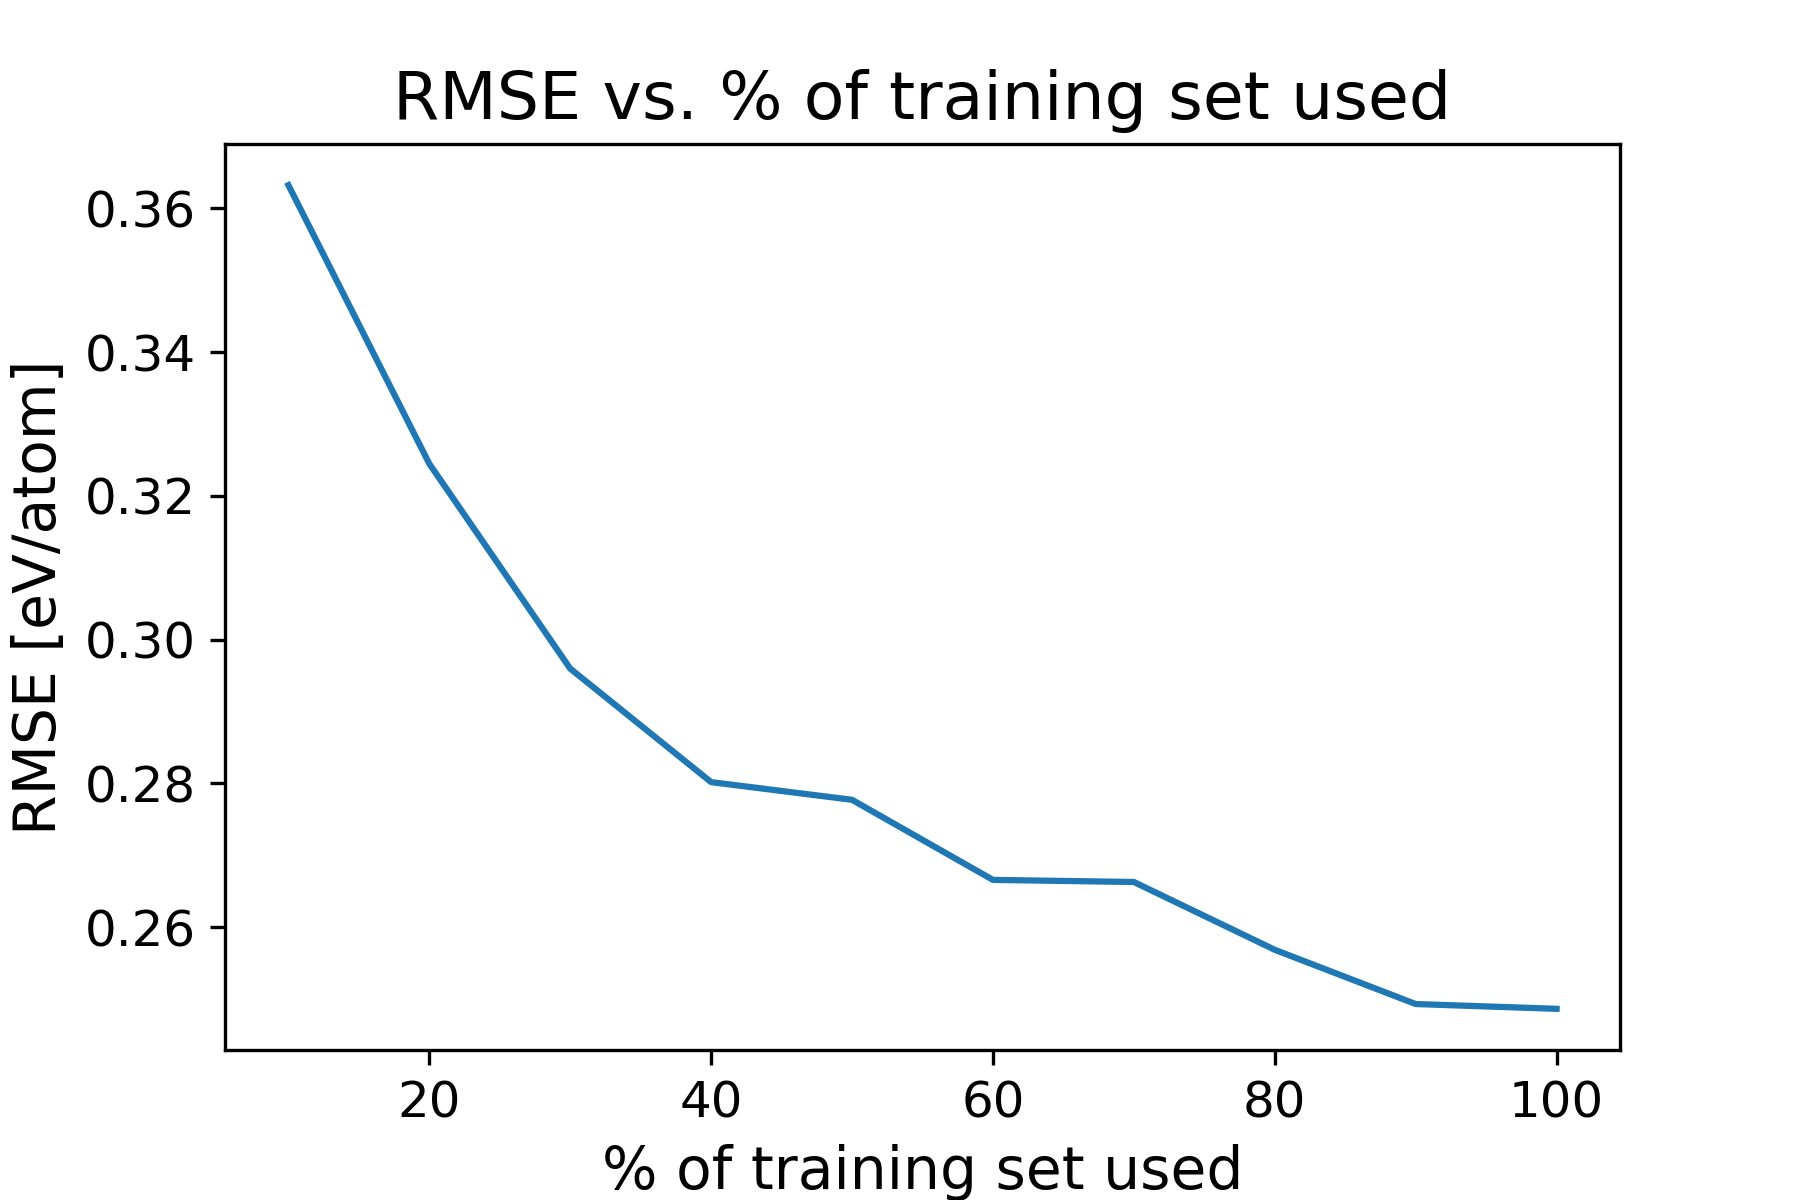
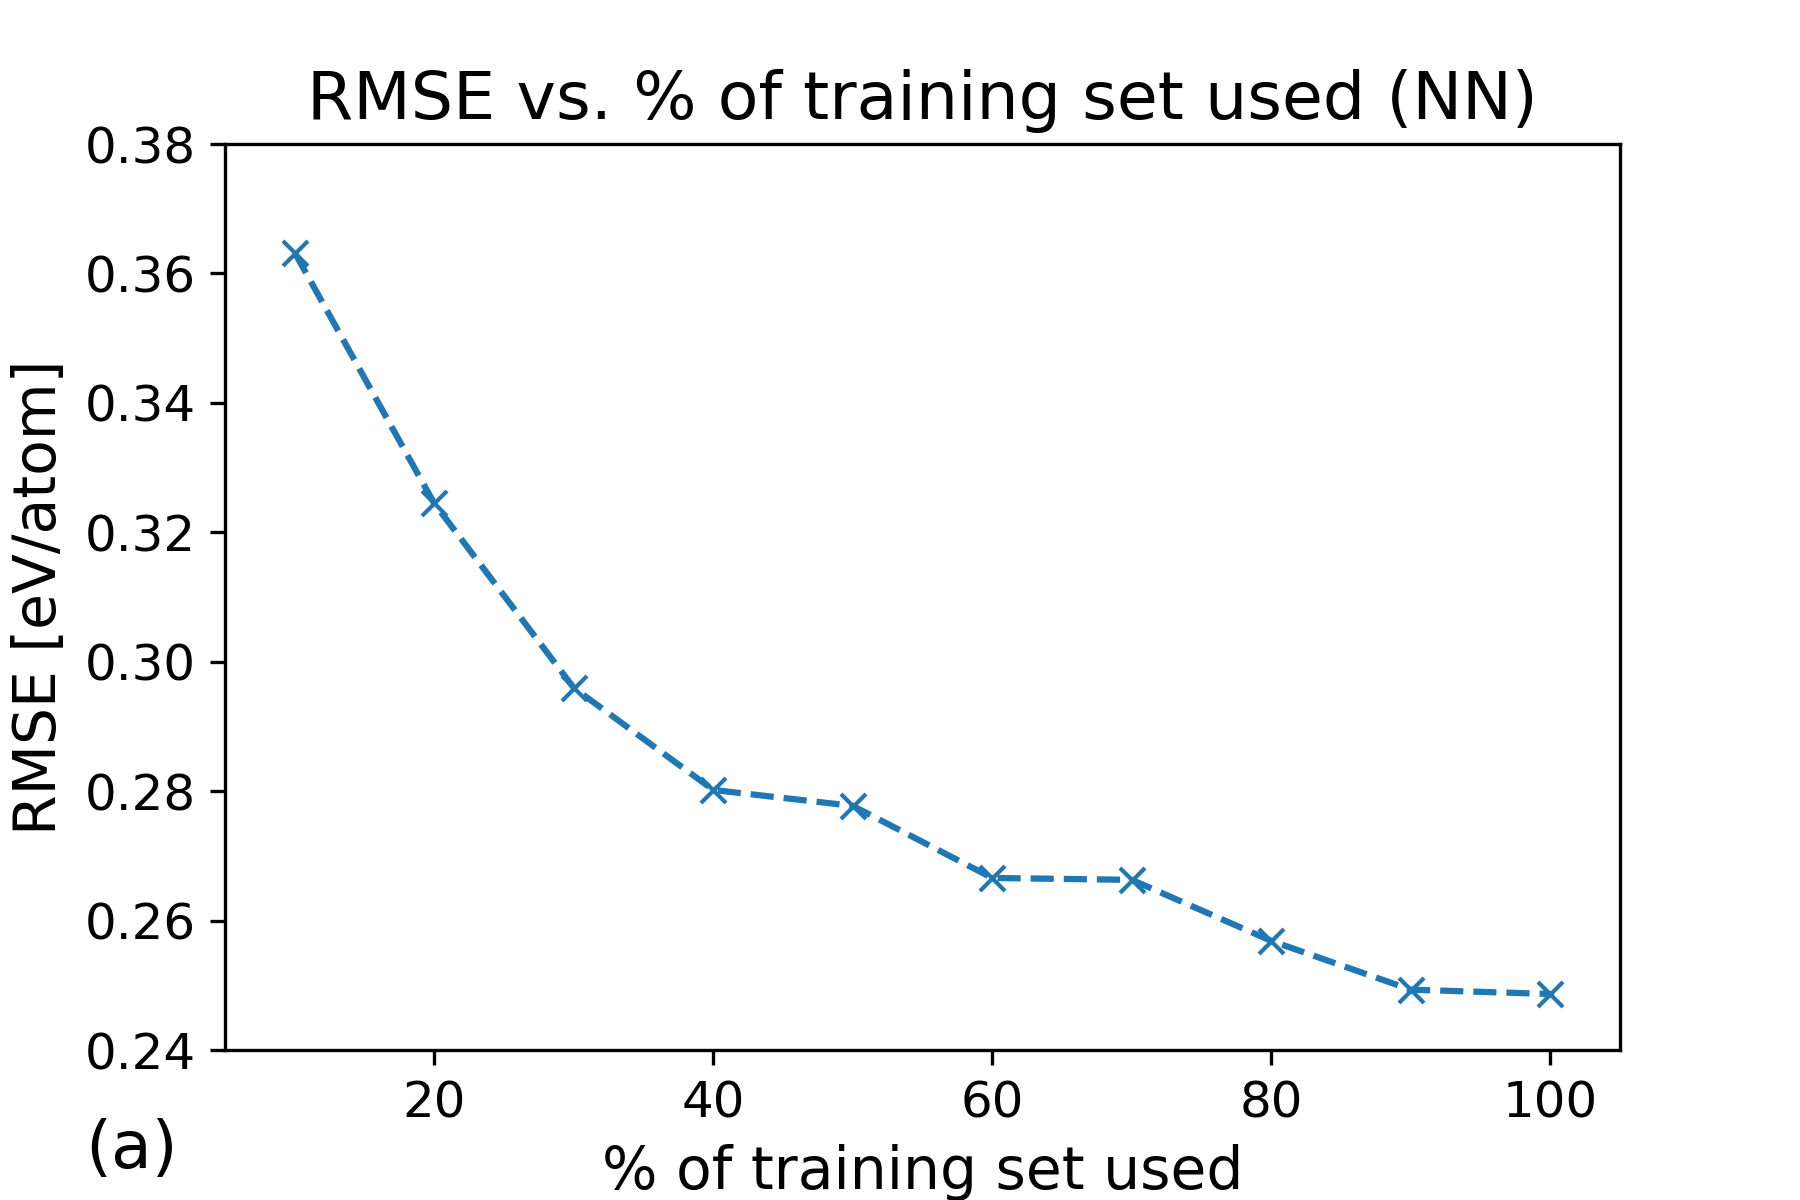
x

diff --git a/NN/data_size_plots.py b/NN/data_size_plots.py
@@ -12,6 +12,7 @@ import numpy as np
 import matplotlib.pyplot as plt
 
 
+
 os.chdir("Saved/data_size")
 
 
@@ -41,13 +42,17 @@ for pct in pct_list:
     rmse_list.append(np.mean(data[pct]))
 
 
+ax=plt.axes()
+plt.text(-0.1,-0.13,'(a)',size=16, transform=ax.transAxes)
 
 plt.xlabel('% of training set used', fontsize=14)
 plt.ylabel('RMSE [eV/atom]', fontsize=14)
-plt.title('RMSE vs. % of training set used', fontsize=16)
+plt.ylim(0.24,0.38)
+plt.xlim(5,105)
+plt.title('RMSE vs. % of training set used (NN)', fontsize=16)
 plt.xticks(fontsize=12)
 plt.yticks(fontsize=12)
-plt.plot(np.array(pct_list)*100,rmse_list)
+plt.plot(np.array(pct_list)*100,rmse_list, 'x--')
 plt.savefig('../../Plots/RMSE_pct_training', dpi=300)
 plt.show()
 
